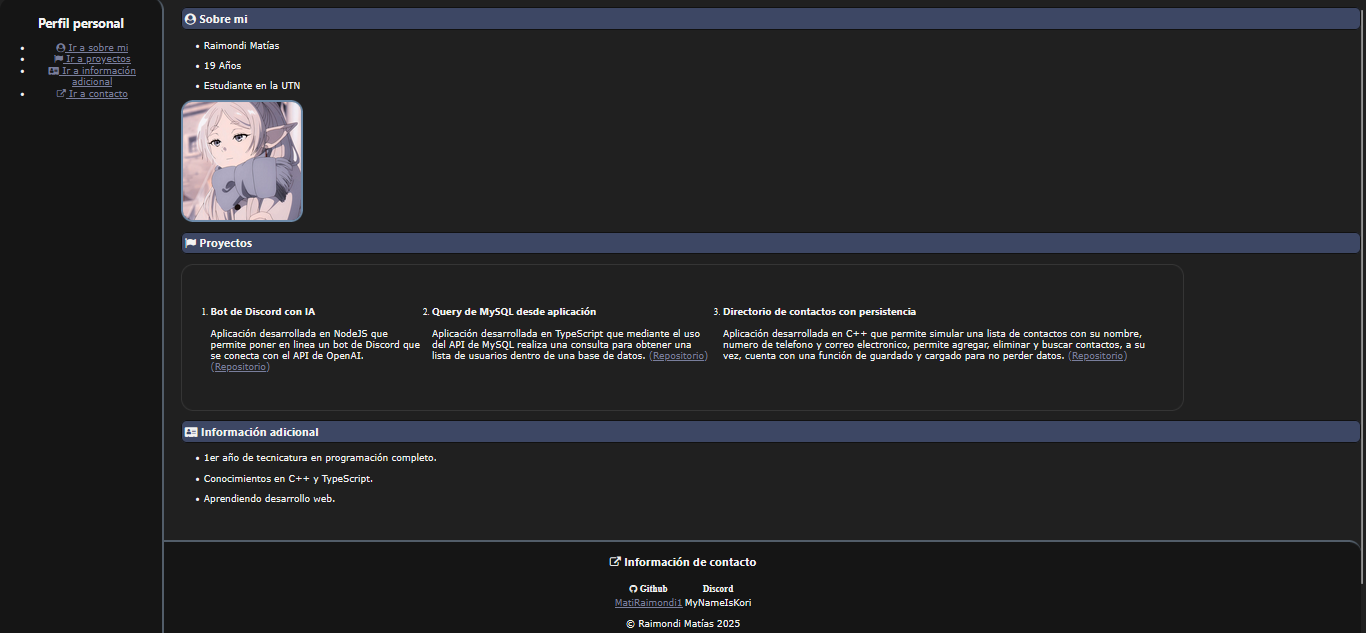
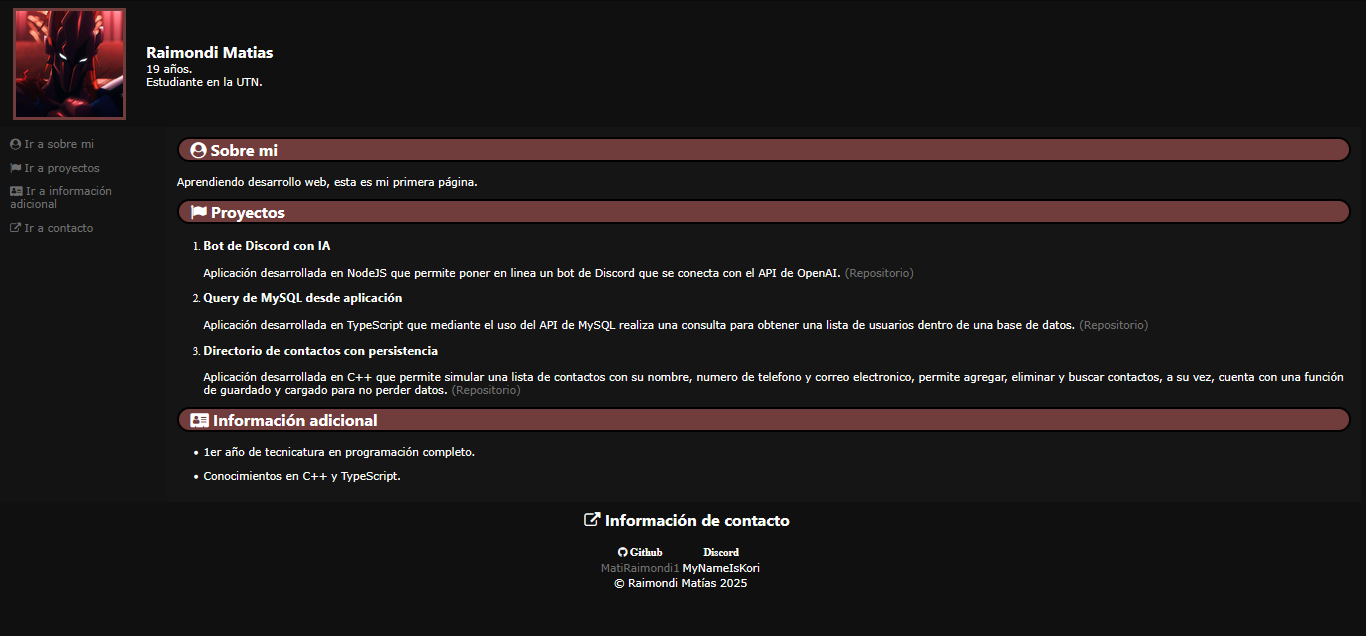
v2

Changed region(s): [[0.0, 0.0, 1.0, 0.8104], [0.123, 0.8104, 1.0, 0.9905]]

diff --git a/src/about_me.html b/src/about_me.html
@@ -1,71 +1,72 @@
 <html>
     <head>
+        <meta charset="UTF-8">
+        <meta name="viewport" content="width=device-width, initial-scale=1.0">
         <link rel="stylesheet" href="https://cdnjs.cloudflare.com/ajax/libs/font-awesome/4.7.0/css/font-awesome.min.css">
         <link rel="stylesheet" href="css/about_me.css">
         <link rel="icon" href="img/Icon.png" type="image/png">
         <title>Raimondi Matías - Perfil</title>
     </head>
-
+    
     <body>
         <header>
-            <section id="inicio">
-                <h1>Perfil personal</h1>
-            </section>
-
-            <nav>
-                <ul>  
-                    <li><a href="#sobremi"><i class="fa fa-user-circle" aria-hidden="true"></i> Ir a sobre mi</a></li>
-                    <li><a href="#proyectos"><i class="fa fa-flag" aria-hidden="true"></i> Ir a proyectos</a></li>
-                    <li><a href="#info"><i class="fa fa-address-card" aria-hidden="true"></i> Ir a información adicional</a></li>
-                    <li><a href="#contacto"><i class="fa fa-external-link" aria-hidden="true"></i> Ir a contacto</a></li>
-                </ul>
-            </nav>
-        </header>
+            <img src="img/Avatar.jpg" width="5%" alt="Frieren">
+            <div class="text_container">
+                <h1>Raimondi Matias</h1>
+                <p>19 años.</p>
+                <p>Estudiante en la UTN.</p>
+            </div>
+        </header>    
         
-        <main>
-            <section id="sobremi">
-                <h2><i class="fa fa-user-circle" aria-hidden="true"></i> Sobre mi</h2>
-                <ul>
-                    <li><p>Raimondi Matías</p></li>
-                    <li><p>19 Años</p></li>
-                    <li><p>Estudiante en la UTN</p></li>
-                </ul>
-                <img src="img/Avatar.jpg" width="10%" alt="Frieren">
-            </section>
-            
-            <section id="proyectos">
-                <h2><i class="fa fa-flag" aria-hidden="true"></i> Proyectos</h2>
-                <ol class="container">
-                    <article>
-                        <li><h3>Bot de Discord con IA</h3></li>
-                        <p>Aplicación desarrollada en NodeJS que permite poner en linea un bot de Discord que se conecta con el API de OpenAI. <a href="https://github.com/MatiRaimondi1/Discord-Bot-with-AI">(Repositorio)</a></p>
-                    </article>
-                
-                    <article>
-                        <li><h3>Query de MySQL desde aplicación</h3></li>
-                        <p>Aplicación desarrollada en TypeScript que mediante el uso del API de MySQL realiza una consulta para obtener una lista de usuarios dentro de una base de datos. <a href="https://github.com/MatiRaimondi1/MySQL-Query-on-TypeScript">(Repositorio)</a></p>
-                    </article>
-                
-                    <article>
-                        <li><h3>Directorio de contactos con persistencia</h3></li>
-                        <p>Aplicación desarrollada en C++ que permite simular una lista de contactos con su nombre, numero de telefono y correo electronico, permite agregar, eliminar y buscar contactos, a su vez, cuenta con una función de guardado y cargado para no perder datos. <a href="https://github.com/MatiRaimondi1/Contacts-Directory-with-Persistence">(Repositorio)</a></p>
-                    </article>
-                </ol>
-            </section>
+        <div class="content">
+            <aside>
+                <nav>
+                    <p><a href="#sobremi"><i class="fa fa-user-circle" aria-hidden="true"></i> Ir a sobre mi</a></p>
+                    <p><a href="#proyectos"><i class="fa fa-flag" aria-hidden="true"></i> Ir a proyectos</a></p>
+                    <p><a href="#info"><i class="fa fa-address-card" aria-hidden="true"></i> Ir a información adicional</a></p>
+                    <p><a href="#contacto"><i class="fa fa-external-link" aria-hidden="true"></i> Ir a contacto</a></p>
+                </nav>
+            </aside>
 
-            <section id="info">
-                <h2><i class="fa fa-address-card" aria-hidden="true"></i> Información adicional</h2>
-                <ul>
-                    <li><p>1er año de tecnicatura en programación completo.</p></li>
-                    <li><p>Conocimientos en C++ y TypeScript.</p></li>
-                    <li><p>Aprendiendo desarrollo web.</p></li>
-                </ul>
-            </section>
-        </main>
-
+            <main>
+                <section id="sobremi">
+                    <h2><i class="fa fa-user-circle" aria-hidden="true"></i> Sobre mi</h2>
+                    <p>Aprendiendo desarrollo web, esta es mi primera página.</p>
+                </section>
+                
+                <section id="proyectos">
+                    <h2><i class="fa fa-flag" aria-hidden="true"></i> Proyectos</h2>
+                    <ol>
+                        <article>
+                            <li><h3>Bot de Discord con IA</h3></li>
+                            <p>Aplicación desarrollada en NodeJS que permite poner en linea un bot de Discord que se conecta con el API de OpenAI. <a href="https://github.com/MatiRaimondi1/Discord-Bot-with-AI">(Repositorio)</a></p>
+                        </article>
+                    
+                        <article>
+                            <li><h3>Query de MySQL desde aplicación</h3></li>
+                            <p>Aplicación desarrollada en TypeScript que mediante el uso del API de MySQL realiza una consulta para obtener una lista de usuarios dentro de una base de datos. <a href="https://github.com/MatiRaimondi1/MySQL-Query-on-TypeScript">(Repositorio)</a></p>
+                        </article>
+                    
+                        <article>
+                            <li><h3>Directorio de contactos con persistencia</h3></li>
+                            <p>Aplicación desarrollada en C++ que permite simular una lista de contactos con su nombre, numero de telefono y correo electronico, permite agregar, eliminar y buscar contactos, a su vez, cuenta con una función de guardado y cargado para no perder datos. <a href="https://github.com/MatiRaimondi1/Contacts-Directory-with-Persistence">(Repositorio)</a></p>
+                        </article>
+                    </ol>
+                </section>
+    
+                <section id="info">
+                    <h2><i class="fa fa-address-card" aria-hidden="true"></i> Información adicional</h2>
+                    <ul>
+                        <li><p>1er año de tecnicatura en programación completo.</p></li>
+                        <li><p>Conocimientos en C++ y TypeScript.</p></li>
+                    </ul>
+                </section>
+            </main>
+        </div>
+        
         <footer>
             <section id="contacto">
-                <h2 class="contact_h2"><i class="fa fa-external-link" aria-hidden="true"></i> Información de contacto</h2>
+                <h2><i class="fa fa-external-link" aria-hidden="true"></i> Información de contacto</h2>
                 <table class="contact_table">
                     <thead>
                         <tr>

diff --git a/src/css/about_me.css b/src/css/about_me.css
@@ -1,94 +1,94 @@
+* {
+    margin-left: 0;
+    margin-top: 0;
+}
+
 html {
-    background-color:#202020;
-}
-
-main {
-    color: #f3f3f3;
-    padding-left:13%;
-    padding-bottom:2%;
-}
-
-header, footer {
-    margin: 0 auto;
-    background-color: #151515;
-    color: #f3f3f3;
-    border: 4px solid #525d69;
-    border-radius:20px;
-}
-
-header {
-    position: fixed;
-    height:100%;
-    left: 0;
-    top: 0;
-    padding: 10px;
-    text-align:center;
-    border-top: 0;
-    border-left: 0;
-    width:11%;
-}
-
-footer {
-    bottom:0;
-    padding-left: 0%;
-    border-left: 0;
-    border-bottom: 0;
-    border-right: 0;
-    width:100%;
-    height:20%;
-    text-align:center;
+    background-color: #101010;
 }
 
 h1, h2, h3 {
-    font-family:'Segoe UI';
-}
-
-h1 {
-    font-size: 22px;
+    font-family: 'Segoe UI';
 }
 
 h2 {
-    padding: 5;
-    font-size: 20px;
-    background-color: rgba(120, 151, 237, 0.333);
-    border: 3px solid #111111;
-    border-radius: 10px;
-}
-
-h3 {
-    font-size: 18px;
+    background-color: rgb(113, 60, 60);
+    border: 4px solid black;
+    border-radius: 25px;
+    padding-left: 1%;
 }
 
 p, a {
-    font-family:Verdana;
-    font-size: 16px;
+    font-family: Verdana;
 }
 
 a {
-    color:#797e9c;
+    color: rgb(110, 110, 110);
+    text-decoration-line: none;
 }
 
-img {
-    border:5px solid #6e8ba9;
-    border-radius:20px;
-}
-
-.container {
+header {
     display: flex;
-    justify-content: space-between;
-    gap: 20px;
-    width: 80%;
-    padding: 50px;
-    border: 2px solid #353535;
-    border-radius:20px;
+    align-items: left;
+    background-color: #101010;
+    color: white;
+    padding: 10px 20px;
 }
 
-.contact_h2 {
-    background-color:rgba(35, 35, 35, 0);
-    border: 0px;
+.text_container {
+    display: flex;
+    flex-direction: column;
+    justify-content: center;
+    margin-left: 15px;
+}
+
+header h1 {
+    margin: 0;
+    font-size: 24px;
+}
+
+header img {
+    width: 8%;
+    margin-right: 15px;
+    border: 5px solid rgb(113, 60, 60);
+}
+
+header p {
+    margin: 0;
+}
+
+.content {
+    display: flex;
+    flex: 1;
+}
+
+aside {
+    width: 250px;
+    background-color: #131313;
+    padding: 15px;
+    box-sizing: border-box;
+}
+
+main {
+    flex: 1;
+    padding: 15px;
+    background-color: #151515;
+    color: white;
+}
+
+footer {
+    background-color: #101010;
+    color: white;
+    text-align: center;
+    padding: 10px;
+}
+
+footer h2 {
+    background: none;
+    border: none;
 }
 
 .contact_table {
     margin: 0px auto;
-    color: #f3f3f3;
+    color: white;
 }
